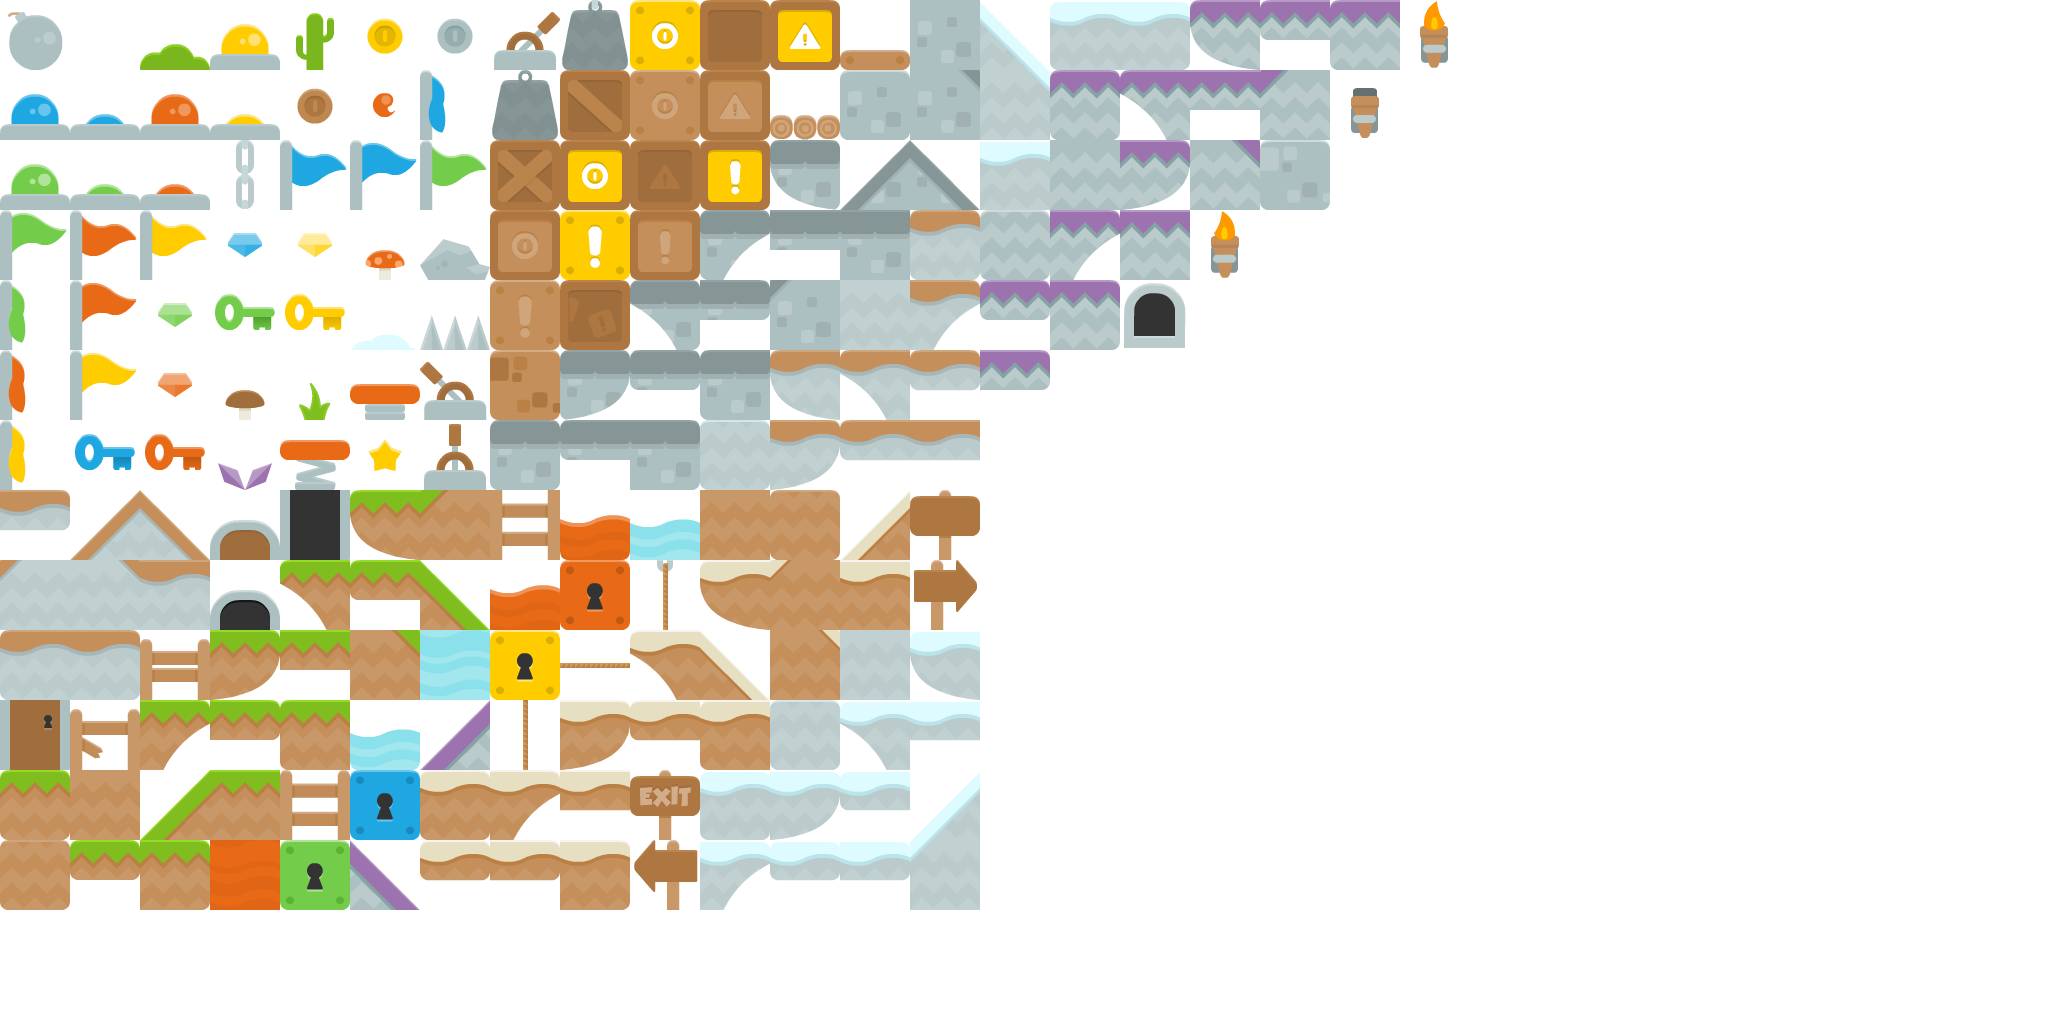
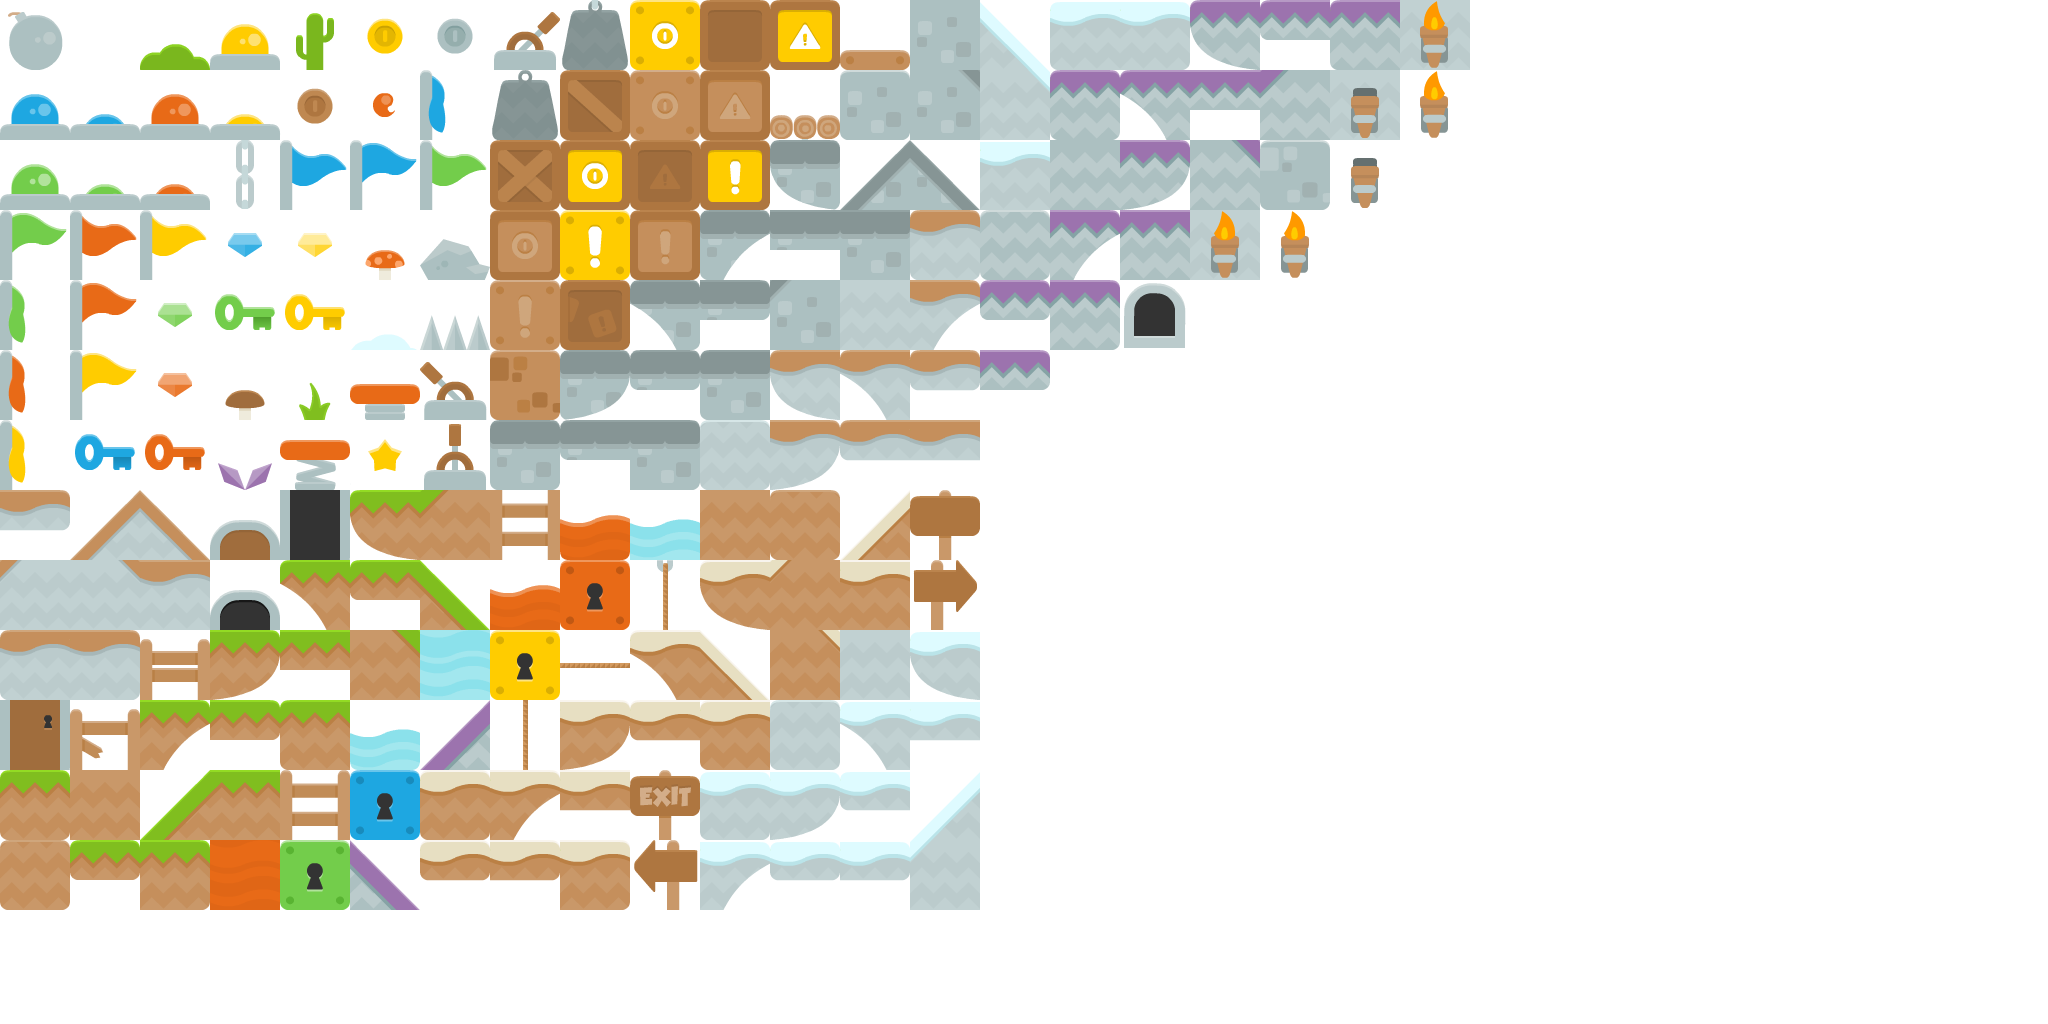
[SIDESCROLLER-DEMO] Movement an dcollisions

Changed region(s): [[0.625, 0.0, 0.7188, 0.2188], [0.5625, 0.1875, 0.6562, 0.2812]]

diff --git a/core/src/de/samdev/absgdx/example/mainmenu/ManualMenu.java b/core/src/de/samdev/absgdx/example/mainmenu/ManualMenu.java
@@ -18,6 +18,7 @@ import de.samdev.absgdx.framework.menu.attributes.VertAlign;
 import de.samdev.absgdx.framework.menu.attributes.VisualButtonState;
 import de.samdev.absgdx.framework.menu.elements.MenuButton;
 import de.samdev.absgdx.framework.menu.elements.MenuCheckBox;
+import de.samdev.absgdx.framework.menu.elements.MenuContainer;
 import de.samdev.absgdx.framework.menu.elements.MenuEdit;
 import de.samdev.absgdx.framework.menu.elements.MenuBaseElement;
 import de.samdev.absgdx.framework.menu.elements.MenuImage;
@@ -30,45 +31,55 @@ import de.samdev.absgdx.framework.util.exceptions.AgdxmlParsingException;
 
 public class ManualMenu extends MenuLayer {
 
+	private MenuContainer root;
+	
 	public ManualMenu(AgdxGame owner) {
 		super(owner, new BitmapFont(Gdx.files.internal("consolefont.fnt")));
 
+		root = new MenuContainer();
+		root.setWidth(1280);
+		root.setHeight(720);
+		
 		GUITextureProvider prov = new GUITextureProvider();
-		prov.setMenuButtonTexture(Textures.tex_buttongui[0], VisualButtonState.NORMAL);
-		prov.setMenuButtonTexture(Textures.tex_buttongui[1], VisualButtonState.HOVERED);
-		prov.setMenuButtonTexture(Textures.tex_buttongui[2], VisualButtonState.PRESSED);
-		prov.setMenuButtonTexture(Textures.tex_buttongui[3], VisualButtonState.DISABLED);
-
-		prov.setMenuPanelTexture(Textures.tex_panelgui);
-
-		prov.setMenuEditTexture(Textures.tex_textfield, false);
-		prov.setMenuEditTexture(Textures.tex_textfield_focus, true);
-
-		prov.setMenuCheckBoxTexture(Textures.tex_gui_checkers[0][0], true);
-		prov.setMenuCheckBoxTexture(Textures.tex_gui_checkers[0][1], false);
-
-		prov.setMenuRadioButtonTexture(Textures.tex_gui_checkers[3][0], true);
-		prov.setMenuRadioButtonTexture(Textures.tex_gui_checkers[3][1], false);
-
-		prov.setMenuSettingsTreeTexture(Textures.tex_panelgui);
-		prov.setMenuSettingsTreeButtonTexture(Textures.tex_gui_checkers[2][0], true);
-		prov.setMenuSettingsTreeButtonTexture(Textures.tex_gui_checkers[2][1], false);
-		prov.setMenuSettingsTreeValueTexture(Textures.tex_gui_checkers[1][0], TristateBoolean.FALSE);
-		prov.setMenuSettingsTreeValueTexture(Textures.tex_gui_checkers[0][2], TristateBoolean.INTERMEDIATE);
-		prov.setMenuSettingsTreeValueTexture(Textures.tex_gui_checkers[0][0], TristateBoolean.TRUE);
-		prov.setMenuSettingsTreeLeafTexture(Textures.tex_gui_checkers[0][1]);
-
-		prov.set(MenuProgressbar.class, "0", Textures.tex_gui_progressbar[0]);
-		prov.set(MenuProgressbar.class, "1", Textures.tex_gui_progressbar[1]);
-		prov.set(MenuProgressbar.class, "2", Textures.tex_gui_progressbar[2]);
-		prov.set(MenuProgressbar.class, "3", Textures.tex_gui_progressbar[3]);
-		prov.set(MenuProgressbar.class, "4", Textures.tex_gui_progressbar[4]);
+		{
+			prov.setMenuButtonTexture(Textures.tex_buttongui[0], VisualButtonState.NORMAL);
+			prov.setMenuButtonTexture(Textures.tex_buttongui[1], VisualButtonState.HOVERED);
+			prov.setMenuButtonTexture(Textures.tex_buttongui[2], VisualButtonState.PRESSED);
+			prov.setMenuButtonTexture(Textures.tex_buttongui[3], VisualButtonState.DISABLED);
+	
+			prov.setMenuPanelTexture(Textures.tex_panelgui);
+	
+			prov.setMenuEditTexture(Textures.tex_textfield, false);
+			prov.setMenuEditTexture(Textures.tex_textfield_focus, true);
+	
+			prov.setMenuCheckBoxTexture(Textures.tex_gui_checkers[0][0], true);
+			prov.setMenuCheckBoxTexture(Textures.tex_gui_checkers[0][1], false);
+	
+			prov.setMenuRadioButtonTexture(Textures.tex_gui_checkers[3][0], true);
+			prov.setMenuRadioButtonTexture(Textures.tex_gui_checkers[3][1], false);
+	
+			prov.setMenuSettingsTreeTexture(Textures.tex_panelgui);
+			prov.setMenuSettingsTreeButtonTexture(Textures.tex_gui_checkers[2][0], true);
+			prov.setMenuSettingsTreeButtonTexture(Textures.tex_gui_checkers[2][1], false);
+			prov.setMenuSettingsTreeValueTexture(Textures.tex_gui_checkers[1][0], TristateBoolean.FALSE);
+			prov.setMenuSettingsTreeValueTexture(Textures.tex_gui_checkers[0][2], TristateBoolean.INTERMEDIATE);
+			prov.setMenuSettingsTreeValueTexture(Textures.tex_gui_checkers[0][0], TristateBoolean.TRUE);
+			prov.setMenuSettingsTreeLeafTexture(Textures.tex_gui_checkers[0][1]);
+	
+			prov.set(MenuProgressbar.class, "0", Textures.tex_gui_progressbar[0]);
+			prov.set(MenuProgressbar.class, "1", Textures.tex_gui_progressbar[1]);
+			prov.set(MenuProgressbar.class, "2", Textures.tex_gui_progressbar[2]);
+			prov.set(MenuProgressbar.class, "3", Textures.tex_gui_progressbar[3]);
+			prov.set(MenuProgressbar.class, "4", Textures.tex_gui_progressbar[4]);
+		}
 		
 		GUITextureProvider prov2 = new GUITextureProvider();
-		prov2.setMenuButtonTexture(Textures.tex_buttongui[4], VisualButtonState.NORMAL);
-		prov2.setMenuButtonTexture(Textures.tex_buttongui[5], VisualButtonState.HOVERED);
-		prov2.setMenuButtonTexture(Textures.tex_buttongui[6], VisualButtonState.PRESSED);
-		prov2.setMenuButtonTexture(Textures.tex_buttongui[7], VisualButtonState.DISABLED);
+		{
+			prov2.setMenuButtonTexture(Textures.tex_buttongui[4], VisualButtonState.NORMAL);
+			prov2.setMenuButtonTexture(Textures.tex_buttongui[5], VisualButtonState.HOVERED);
+			prov2.setMenuButtonTexture(Textures.tex_buttongui[6], VisualButtonState.PRESSED);
+			prov2.setMenuButtonTexture(Textures.tex_buttongui[7], VisualButtonState.DISABLED);
+		}
 		
 		final MenuPanel p = new MenuPanel(prov);
 		p.setBoundaries(50, 50, 600, 310);
@@ -169,7 +180,7 @@ public class ManualMenu extends MenuLayer {
 		});
 		p.addChildren(b3);
 		
-		getRoot().addChildren(p);
+		root.addChildren(p);
 		
 		//#######################################################
 		
@@ -254,7 +265,7 @@ public class ManualMenu extends MenuLayer {
 		pb.setBoundaries(25, 200, 550, 30);
 		p2.addChildren(pb);
 
-		getRoot().addChildren(p2);
+		root.addChildren(p2);
 		
 		//#######################################################
 		
@@ -262,7 +273,7 @@ public class ManualMenu extends MenuLayer {
 		p3.setBoundaries(700, 50, 550, 600);
 		p3.setColor(Color.WHITE);
 		p3.setVisible(true);
-		getRoot().addChildren(p3);
+		root.addChildren(p3);
 		
 		//#######################################################
 		//#######################################################
@@ -283,11 +294,20 @@ public class ManualMenu extends MenuLayer {
 			@Override
 			public void onClicked(MenuBaseElement element, String identifier) {l2.setVisible(true); p3.setVisible(! p3.isVisible()); b.setContent("Press again");}
 		});
+
+		getRoot().setWidth(owner.getScreenWidth());
+		getRoot().setHeight(owner.getScreenHeight());
+		root.setPosition((getRoot().getWidth() - root.getWidth())/2, (getRoot().getHeight() - root.getHeight())/2);
+		
+		getRoot().addChildren(root);
 	}
 
 	@Override
 	public void onResize() {
-		// Kinda ... nothing
+		getRoot().setWidth(owner.getScreenWidth());
+		getRoot().setHeight(owner.getScreenHeight());
+		
+		root.setPosition((getRoot().getWidth() - root.getWidth())/2, (getRoot().getHeight() - root.getHeight())/2);
 	}
 
 }

diff --git a/core/src/de/samdev/absgdx/example/sidescrollergame/SidescrollerGameLayer.java b/core/src/de/samdev/absgdx/example/sidescrollergame/SidescrollerGameLayer.java
@@ -13,6 +13,8 @@ import de.samdev.absgdx.example.sidescrollergame.tiles.LadderTile;
 import de.samdev.absgdx.example.sidescrollergame.tiles.LadderTopTile;
 import de.samdev.absgdx.example.sidescrollergame.tiles.LeverTile;
 import de.samdev.absgdx.example.sidescrollergame.tiles.SidescrollerAutoTile;
+import de.samdev.absgdx.example.sidescrollergame.tiles.SpikeTile;
+import de.samdev.absgdx.example.sidescrollergame.tiles.TorchTile;
 import de.samdev.absgdx.framework.AgdxGame;
 import de.samdev.absgdx.framework.layer.GameLayer;
 import de.samdev.absgdx.framework.map.TileMap;
@@ -41,13 +43,14 @@ public class SidescrollerGameLayer extends GameLayer {
 	private static TileMap loadMap() {
 		TmxMapLoader loader = new TmxMapLoader(Gdx.files.internal("demosidemap.tmx"));
 		
-		loader.addMapping(208, DoorBottomTile.class);
-		loader.addMapping(236, DoorTopTile.class);
-		loader.addMapping(236, DoorTopTile.class);
 		loader.addMapping(8,   LeverTile.class);
-		loader.addMapping(211, LadderTile.class);
-		loader.addMapping(264, LadderTopTile.class);
+		loader.addMapping(123, SpikeTile.class);
 		loader.addMapping(151, JumpPadTile.class);
+		loader.addMapping(208, DoorBottomTile.class);
+		loader.addMapping(211, LadderTile.class);
+		loader.addMapping(236, DoorTopTile.class);
+		loader.addMapping(264, LadderTopTile.class);
+		loader.addMapping(105, TorchTile.class);
 		
 		loader.addDefaultMapping(SidescrollerAutoTile.class);
 		
@@ -73,6 +76,8 @@ public class SidescrollerGameLayer extends GameLayer {
 			setRawOffset(new Vector2(map_offset.x, map_offset.y - speed));
 		
 		scrollMapToEntity(pe, 5f, 2f);
+		
+		if (Gdx.input.isKeyPressed(Keys.BACK) || Gdx.input.isKeyPressed(Keys.ESCAPE)) owner.popLayer();
 	}
 
 }

diff --git a/core/src/de/samdev/absgdx/example/sidescrollergame/entities/PlayerEntity.java b/core/src/de/samdev/absgdx/example/sidescrollergame/entities/PlayerEntity.java
@@ -70,15 +70,12 @@ public class PlayerEntity extends PhysicsEntity {
 		pauseAnimation(speed.isZero());
 		
 		movement_acc.x = 0;
-		if (Gdx.input.isKeyPressed(Keys.D)) movement_acc.x = +0.000004f;
-		if (Gdx.input.isKeyPressed(Keys.A)) movement_acc.x = -0.000004f;
-		
-		movement_acc.x += Math.min(Math.max(Gdx.input.getAccelerometerY(), -4), 4) * 0.000001f;
+		if (Gdx.input.isKeyPressed(Keys.D) || Gdx.input.getAccelerometerY() > +1) movement_acc.x = +0.000004f;
+		if (Gdx.input.isKeyPressed(Keys.A) || Gdx.input.getAccelerometerY() < -1) movement_acc.x = -0.000004f;
 		
 		if (speed.x > 0.008 && movement_acc.x > 0) movement_acc.x = 0;
 		if (speed.x < -0.008 && movement_acc.x < 0) movement_acc.x = 0;
-		
-		
+
 		grinding_acc.x = 0;
 		if (! Gdx.input.isKeyPressed(Keys.D) && ! Gdx.input.isKeyPressed(Keys.A)) grinding_acc.x = -0.00001f * speed.x/0.008f;
 		if (! Gdx.input.isKeyPressed(Keys.D) && ! Gdx.input.isKeyPressed(Keys.A) && Math.abs(speed.x) < 0.0001) speed.x = 0;
@@ -90,6 +87,10 @@ public class PlayerEntity extends PhysicsEntity {
 			if (Gdx.input.isKeyPressed(Keys.W) || Gdx.input.isButtonPressed(Buttons.LEFT)) {
 				speed.y = 0.003f;
 			}
+		}
+		
+		if (Math.abs(speed.x) < 0.0001f) {
+			this.animationPos = 7f;
 		}
 		
 		if (doCatapult) {
@@ -108,8 +109,10 @@ public class PlayerEntity extends PhysicsEntity {
 		setMass(10);
 	}
 
+	private float lastTextureScaleX = 1;
+	
 	@Override
 	public float getTextureScaleX() {
-		return (speed.x == 0) ? 1 : FloatMath.fsignum(speed.x);
+		return lastTextureScaleX = ((Math.abs(speed.x) < 0.0001f) ? lastTextureScaleX : FloatMath.fsignum(speed.x));
 	}
 }

diff --git a/core/src/de/samdev/absgdx/example/sidescrollergame/tiles/SpikeTile.java b/core/src/de/samdev/absgdx/example/sidescrollergame/tiles/SpikeTile.java
@@ -1,7 +1,9 @@
 package de.samdev.absgdx.example.sidescrollergame.tiles;
 
 import de.samdev.absgdx.example.Textures;
+import de.samdev.absgdx.framework.entities.Entity;
 import de.samdev.absgdx.framework.entities.colliosiondetection.CollisionGeometryOwner;
+import de.samdev.absgdx.framework.entities.colliosiondetection.geometries.CollisionGeometry;
 import de.samdev.absgdx.framework.map.Tile;
 
 public class SpikeTile extends Tile {
@@ -11,13 +13,31 @@ public class SpikeTile extends Tile {
 	}
 
 	@Override
+	public boolean canCollideWith(CollisionGeometryOwner other) {
+		return true;
+	}
+
+	@Override
 	public boolean canMoveCollideWith(CollisionGeometryOwner other) {
 		return false;
+	}
+
+	@Override
+	public void onPassiveCollide(CollisionGeometryOwner activeCollider, CollisionGeometry myGeo, CollisionGeometry otherGeo) {
+		if (activeCollider instanceof Entity) {
+			((Entity)activeCollider).alive = false;
+		}
+	}
+
+	@Override
+	public void onPassiveMovementCollide(CollisionGeometryOwner activeCollider, CollisionGeometry myGeo, CollisionGeometry otherGeo) {
+		if (activeCollider instanceof Entity) {
+			((Entity)activeCollider).alive = false;
+		}
 	}
 
 	@Override
 	public void update(float delta) {
 		// NOP
 	}
-
 }

diff --git a/core/src/de/samdev/absgdx/example/Textures.java b/core/src/de/samdev/absgdx/example/Textures.java
@@ -50,6 +50,8 @@ public final class Textures {
 	public static TextureRegion texLadderTop;
 	public static TextureRegion texJumpPad;
 	public static TextureRegion texJumpPadEx;
+	public static TextureRegion texTorch1;
+	public static TextureRegion texTorch2;
 
 	public static TextureRegion[] tex_player;
 	
@@ -101,6 +103,8 @@ public final class Textures {
 		texLadderTop      = TextureHelper.loadSingleTile(texsidemap,  2,  9, 70, 70);
 		texJumpPad        = TextureHelper.loadSingleTile(texsidemap,  5,  5, 70, 70);
 		texJumpPadEx      = TextureHelper.loadSingleTile(texsidemap,  4,  6, 70, 70);
+		texTorch1         = TextureHelper.loadSingleTile(texsidemap, 17,  3, 70, 70);
+		texTorch2         = TextureHelper.loadSingleTile(texsidemap, 20,  0, 70, 70);
 		
 		tex_Bucket_empty      = TextureHelper.loadSingleTile(texmap, 10, 24, 32, 32);
 		tex_Bucket_full       = TextureHelper.loadSingleTile(texmap, 11, 24, 32, 32);

diff --git a/core/src/de/samdev/absgdx/example/sidescrollergame/tiles/TorchTile.java b/core/src/de/samdev/absgdx/example/sidescrollergame/tiles/TorchTile.java
@@ -1,0 +1,32 @@
+package de.samdev.absgdx.example.sidescrollergame.tiles;
+
+import com.badlogic.gdx.graphics.g2d.TextureRegion;
+
+import de.samdev.absgdx.example.Textures;
+import de.samdev.absgdx.framework.entities.colliosiondetection.CollisionGeometryOwner;
+import de.samdev.absgdx.framework.map.Tile;
+
+public class TorchTile extends Tile {
+
+	private float time = 0;
+	
+	public TorchTile() {
+		super(Textures.texTorch1);
+	}
+
+	@Override
+	public boolean canMoveCollideWith(CollisionGeometryOwner other) {
+		return false;
+	}
+
+	@Override
+	public void update(float delta) {
+		time += delta;
+	}
+
+	@Override
+	public TextureRegion getTexture() {
+		return (((int)(time/400)%2) == 0) ? Textures.texTorch1 : Textures.texTorch2;
+	}
+
+}

diff --git a/core/src/de/samdev/absgdx/example/sidescrollergame/tiles/SidescrollerAutoTile.java b/core/src/de/samdev/absgdx/example/sidescrollergame/tiles/SidescrollerAutoTile.java
@@ -22,9 +22,13 @@ public class SidescrollerAutoTile extends AutoTile {
 		if (gid ==   4) return false; // Yellow push button
 		if (gid ==   5) return false; // Cactus
 		if (gid ==  94) return false; // rock
-		if (gid == 105) return false; // torch
+		if (gid == 150) return false; // Grass
 		if (gid == 246) return false; // Arrow left
 		if (gid == 329) return false; // Exit sign
+		if (gid == 274) return false; // Tunnel Background
+		if (gid == 213) return false; // Water Top
+		if (gid == 268) return false; // Water Base
+		if (gid == 180) return false; // Star
 		
 		return true;
 	}

diff --git a/core/src/de/samdev/absgdx/example/topdowngame/entities/Nazi.java b/core/src/de/samdev/absgdx/example/topdowngame/entities/Nazi.java
@@ -74,7 +74,7 @@ public class Nazi extends Entity {
 		}
 		
 		if (Gdx.input.isButtonPressed(Buttons.LEFT) && !lastLeft) {
-			float angle = new Vector2(layer.GetMouseOnMapPositionX(), layer.GetMouseOnMapPositionY()).sub(getCenterX(), getCenterY()).angle();
+			float angle = new Vector2(layer.getMouseOnMapPositionX(), layer.getMouseOnMapPositionY()).sub(getCenterX(), getCenterY()).angle();
 			int sector = (int)(((angle + 180 + 45)%360)/90);
 			
 			switch (sector) {
